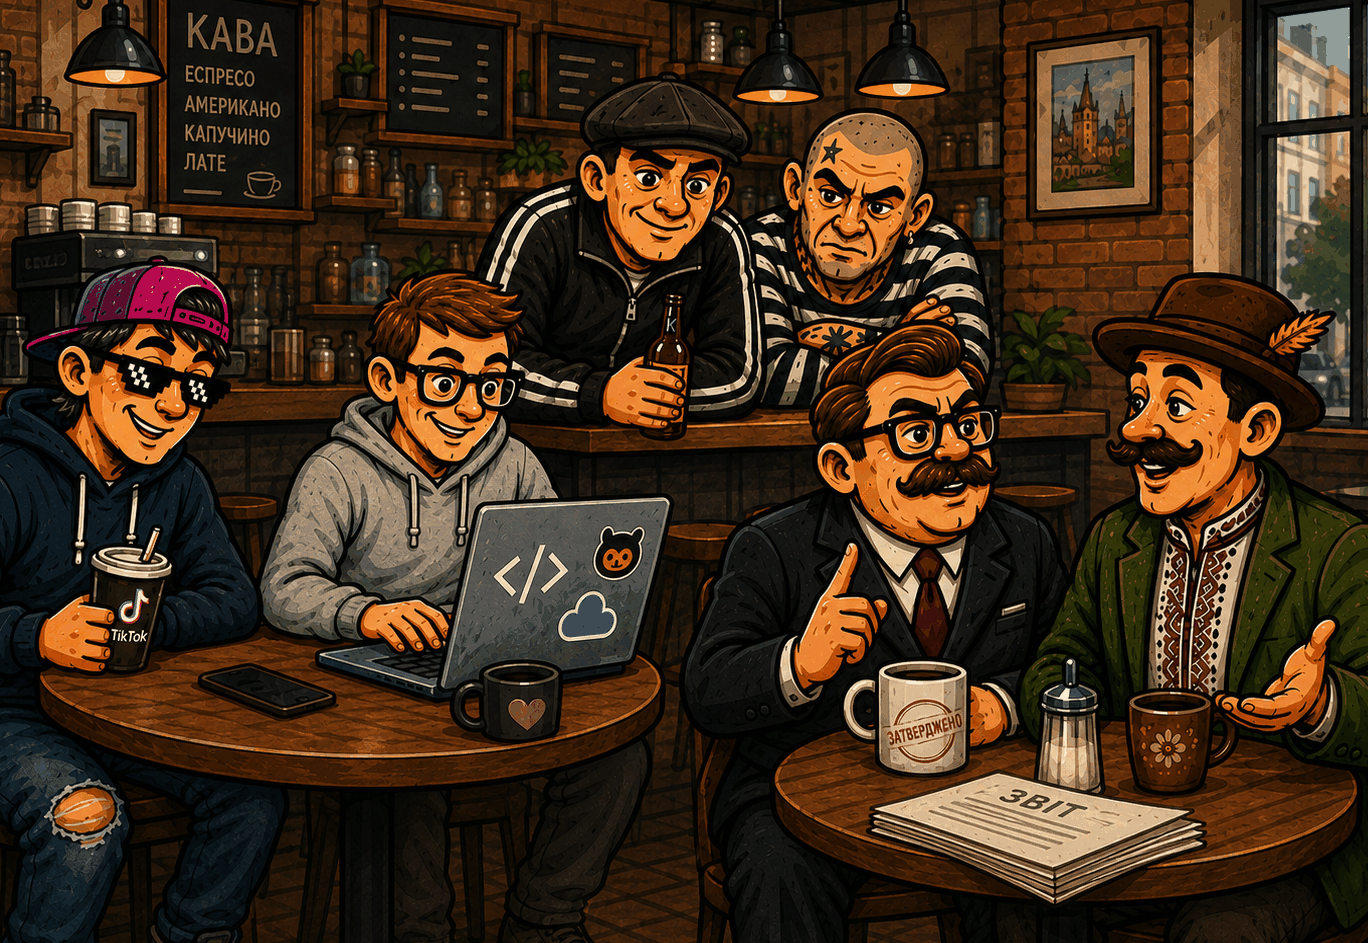
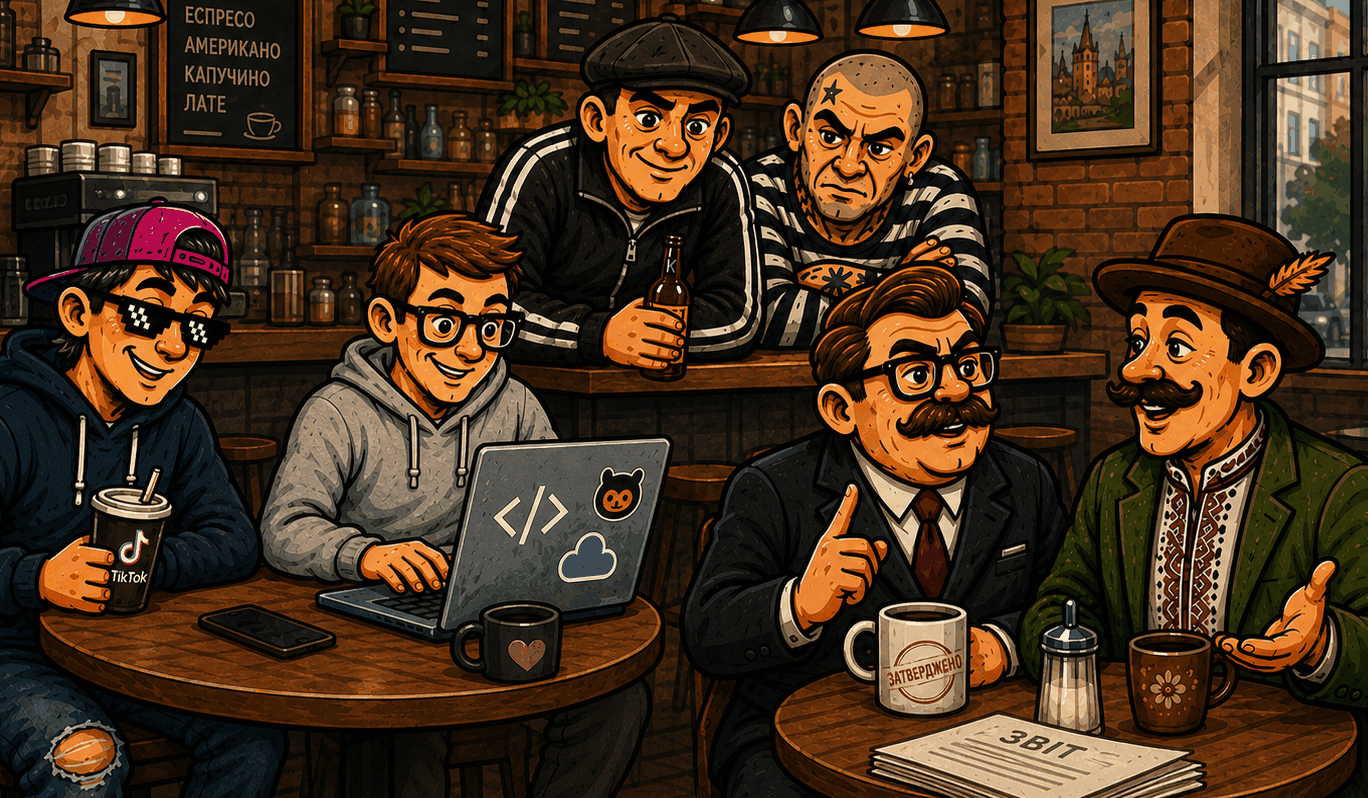
docs(readme): cropped hero at half the width

diff --git a/README.md b/README.md
@@ -6,7 +6,7 @@
 
 # SlangUA
 
-<img src="docs/assets/hero-styles.png" width="720" alt="Шість голосів SlangUA за столиками кав'ярні: Gen Z із TikTok-стаканчиком, айтівець за ноутбуком, вуличний у спортивці, «пофені» у смугастому, кабінетний чиновник зі «ЗВІТОМ» і галичанин у капелюсі" />
+<img src="docs/assets/hero-styles.png" width="360" alt="Шість голосів SlangUA за столиками кав'ярні: Gen Z із TikTok-стаканчиком, айтівець за ноутбуком, вуличний у спортивці, «пофені» у смугастому, кабінетний чиновник зі «ЗВІТОМ» і галичанин у капелюсі" />
 
 **Один текст. Шість українських стилів.**
 
